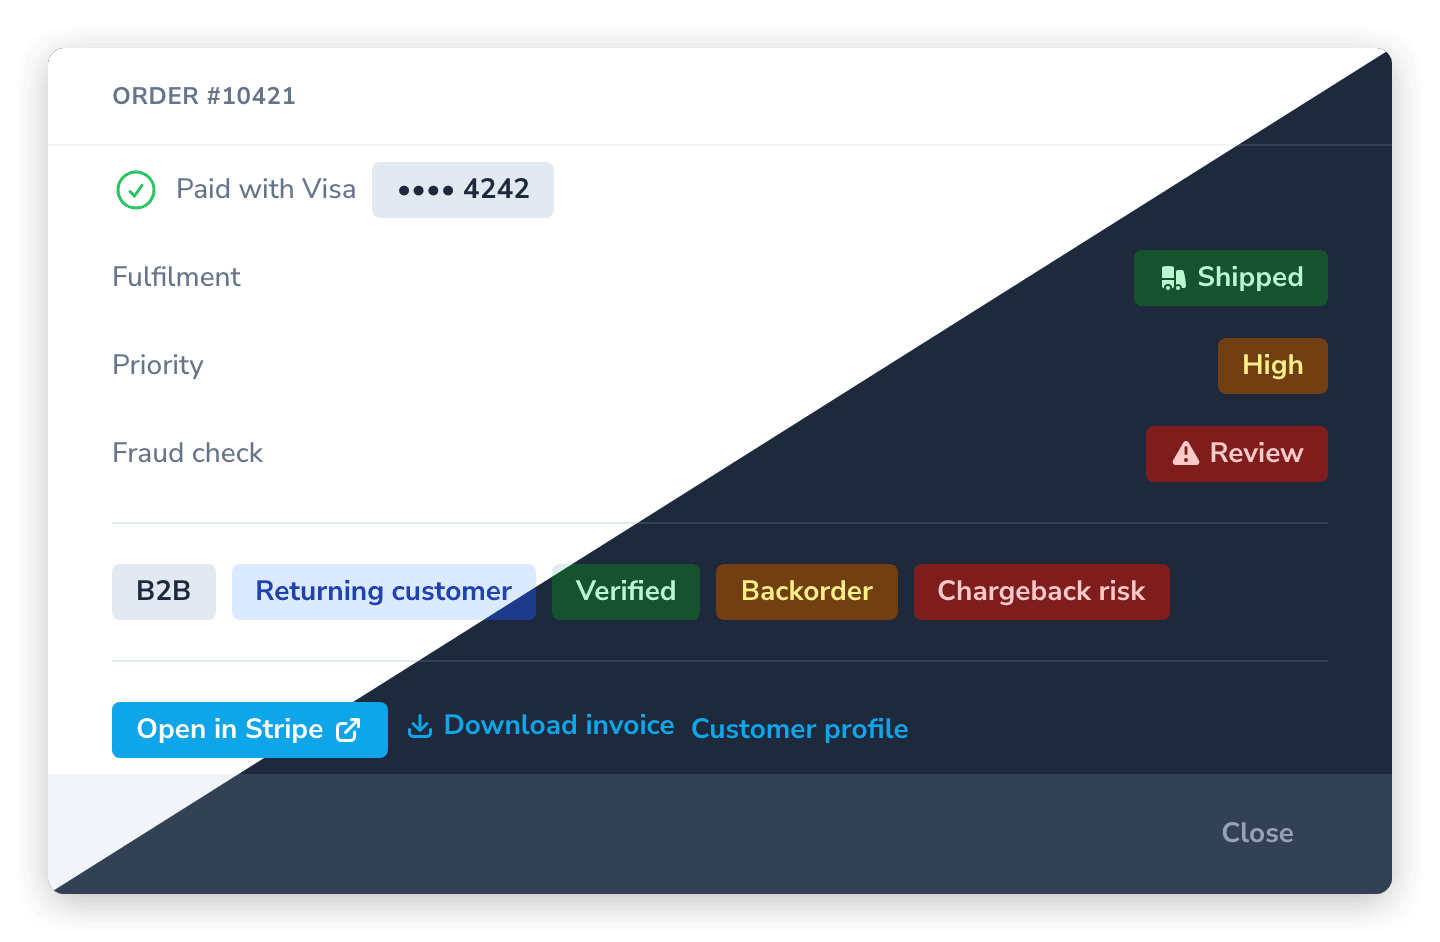
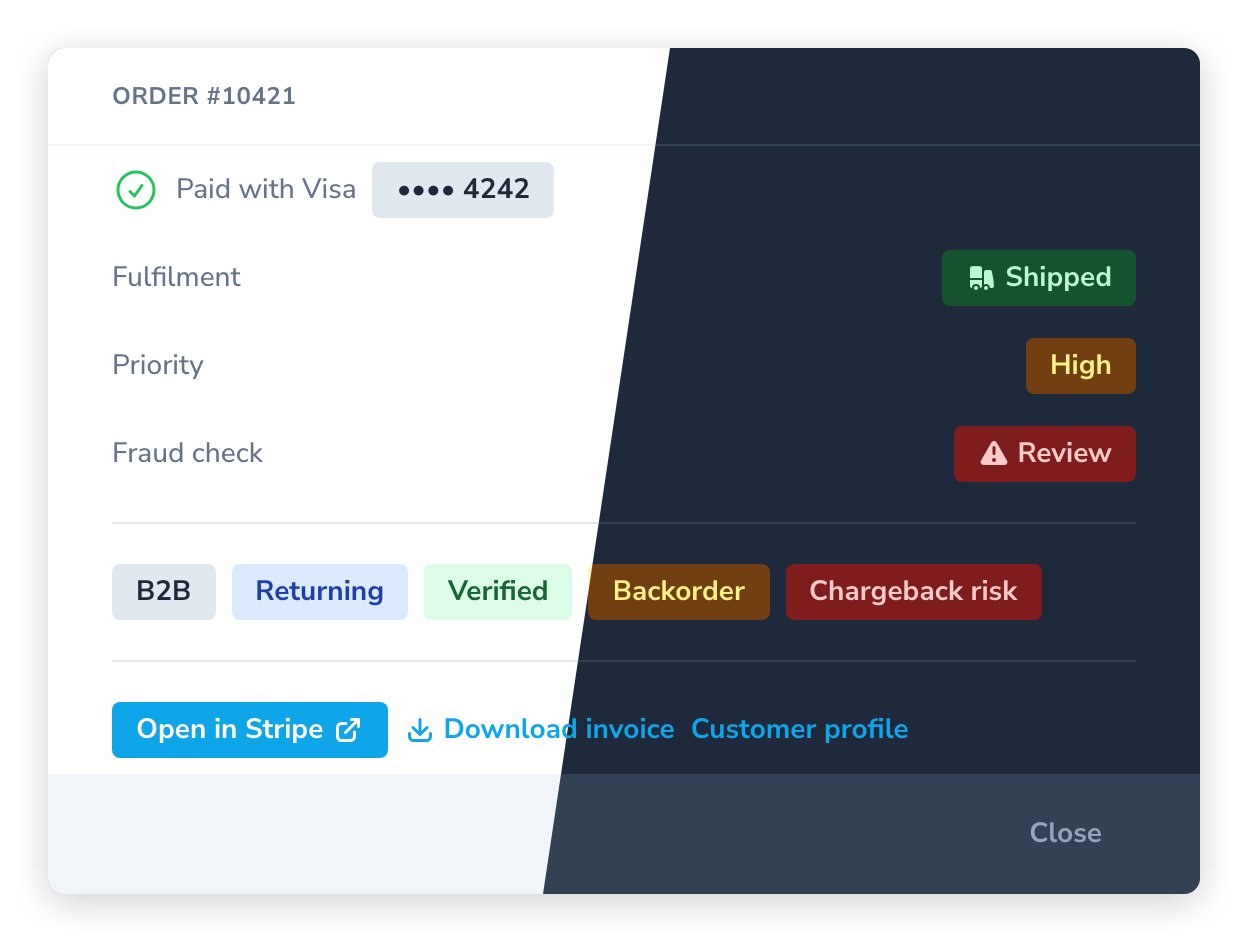
Capture hero as a full Nova page and split screenshots like the original
References #96

diff --git a/workbench/app/Nova/Actions/ScreenshotAction.php b/workbench/app/Nova/Actions/ScreenshotAction.php
@@ -23,6 +23,8 @@ class ScreenshotAction extends Action
 
     public $withoutConfirmation = true;
 
+    public $showInline = true;
+
     public function __construct(private readonly string $scene)
     {
         if (! in_array($scene, self::SCENES, true)) {
@@ -68,14 +70,6 @@ class ScreenshotAction extends Action
             ]),
             Block::inline(['Duration', Block::badge('42s')])->spread(),
             Block::inline(['Commit', Block::badge('a1b2c3d')])->spread(),
-            Block::divider(),
-            Block::heading('Steps')->small(),
-            Block::list([
-                'Install dependencies',
-                'Run migrations',
-                'Compile assets',
-                'Restart workers',
-            ])->ordered(),
             Block::collapsible('Build log', Block::code($log)->withoutHighlighting())->expanded(),
             Block::divider(),
             Block::inline([
@@ -104,7 +98,7 @@ class ScreenshotAction extends Action
                 'Correct the rows in the source file',
                 'Re-run the import with "Only failed rows"',
             ])->ordered(),
-        ])->title('Customer import');
+        ])->title('Customer import')->size('xl');
     }
 
     private function code(): ModalResponse
@@ -124,7 +118,7 @@ class ScreenshotAction extends Action
                 'order' => ['number' => 10421, 'total' => 129.95, 'currency' => 'EUR'],
             ]),
             Block::markdown('Delivered on the **second** attempt. See the [retry policy](https://example.com/docs/retries) for the backoff schedule.'),
-        ])->title('Webhook delivery');
+        ])->title('Webhook delivery')->size('xl');
     }
 
     private function inline(): ModalResponse
@@ -141,7 +135,7 @@ class ScreenshotAction extends Action
             Block::divider(),
             Block::inline([
                 Block::badge('B2B'),
-                Block::badge('Returning customer')->info(),
+                Block::badge('Returning')->info(),
                 Block::badge('Verified')->success(),
                 Block::badge('Backorder')->warning(),
                 Block::badge('Chargeback risk')->danger(),
@@ -155,7 +149,7 @@ class ScreenshotAction extends Action
                 Block::link('Download invoice', 'https://example.com')->icon('arrow-down-tray'),
                 Block::link('Customer profile', 'https://example.com'),
             ]),
-        ])->title('Order #10421');
+        ])->title('Order #10421')->size('xl');
     }
 
     private function containers(): ModalResponse
@@ -179,7 +173,7 @@ class ScreenshotAction extends Action
             'Activity' => [
                 Block::text('Last login 3 days ago.'),
             ],
-        ])->title('Customer #5521');
+        ])->title('Customer #5521')->size('xl');
     }
 
     private function oneLiner(): ModalResponse
@@ -193,6 +187,6 @@ class ScreenshotAction extends Action
                 'currency' => 'EUR',
                 'customer' => ['id' => 5521, 'email' => 'ada@example.com'],
             ],
-        ])->title('Webhook payload');
+        ])->title('Webhook payload')->size('xl');
     }
 }

diff --git a/README.md b/README.md
@@ -7,7 +7,7 @@
 
 Enabling custom modals for action responses in [Laravel Nova](https://nova.laravel.com).
 
-<p align="center"><img src="art/hero.png" alt="A Nova modal with a heading, status badges, a numbered list, a collapsible build log and a button link, shown in light and dark mode" width="640"></p>
+![A Nova page with a modal showing a heading, status badges, a collapsible build log and a button link, split between light and dark mode](art/hero.png)
 
 More info for this specific feature can be found in the [Nova Documentation](https://nova.laravel.com/docs/v5/actions/defining-actions#custom-modal-responses).
 
@@ -48,7 +48,7 @@ ModalResponse::markdown("## Done\n\nImported **42** rows.");
 ModalResponse::view('reports.summary', ['report' => $report]);
 ```
 
-<p align="center"><img src="art/one-liner.png" alt="ModalResponse::json() rendering a highlighted JSON payload" width="560"></p>
+<p align="center"><img src="art/one-liner.png" alt="ModalResponse::json() rendering a highlighted JSON payload" width="600"></p>
 
 `code()` and `json()` are syntax highlighted with [highlight.js](https://highlightjs.org/). Pass `highlight: false` to turn that off:
 
@@ -97,7 +97,7 @@ return ModalResponse::stack([
 
 All blocks are built through the `Markwalet\NovaModalResponse\Block` factory.
 
-<p align="center"><img src="art/blocks-text.png" alt="Heading, text, divider and list blocks" width="560"></p>
+<p align="center"><img src="art/blocks-text.png" alt="Heading, text, divider and list blocks" width="600"></p>
 
 #### Text
 
@@ -132,7 +132,7 @@ A horizontal rule between blocks.
 Block::divider();
 ```
 
-<p align="center"><img src="art/blocks-code.png" alt="Code, JSON and markdown blocks" width="560"></p>
+<p align="center"><img src="art/blocks-code.png" alt="Code, JSON and markdown blocks" width="600"></p>
 
 #### Code
 
@@ -176,7 +176,7 @@ Renders a Blade view on the server and shows the result as HTML.
 Block::view('reports.summary', ['report' => $report]);
 ```
 
-<p align="center"><img src="art/blocks-inline.png" alt="Inline rows of icons, badges in every variant, and links" width="560"></p>
+<p align="center"><img src="art/blocks-inline.png" alt="Inline rows of icons, badges in every variant, and links" width="600"></p>
 
 #### Badge
 
@@ -215,7 +215,7 @@ Block::inline([
 ])->spread();
 ```
 
-<p align="center"><img src="art/blocks-containers.png" alt="Tabs containing key/value rows and collapsible sections" width="560"></p>
+<p align="center"><img src="art/blocks-containers.png" alt="Tabs containing key/value rows and collapsible sections" width="600"></p>
 
 #### Collapsible
 
